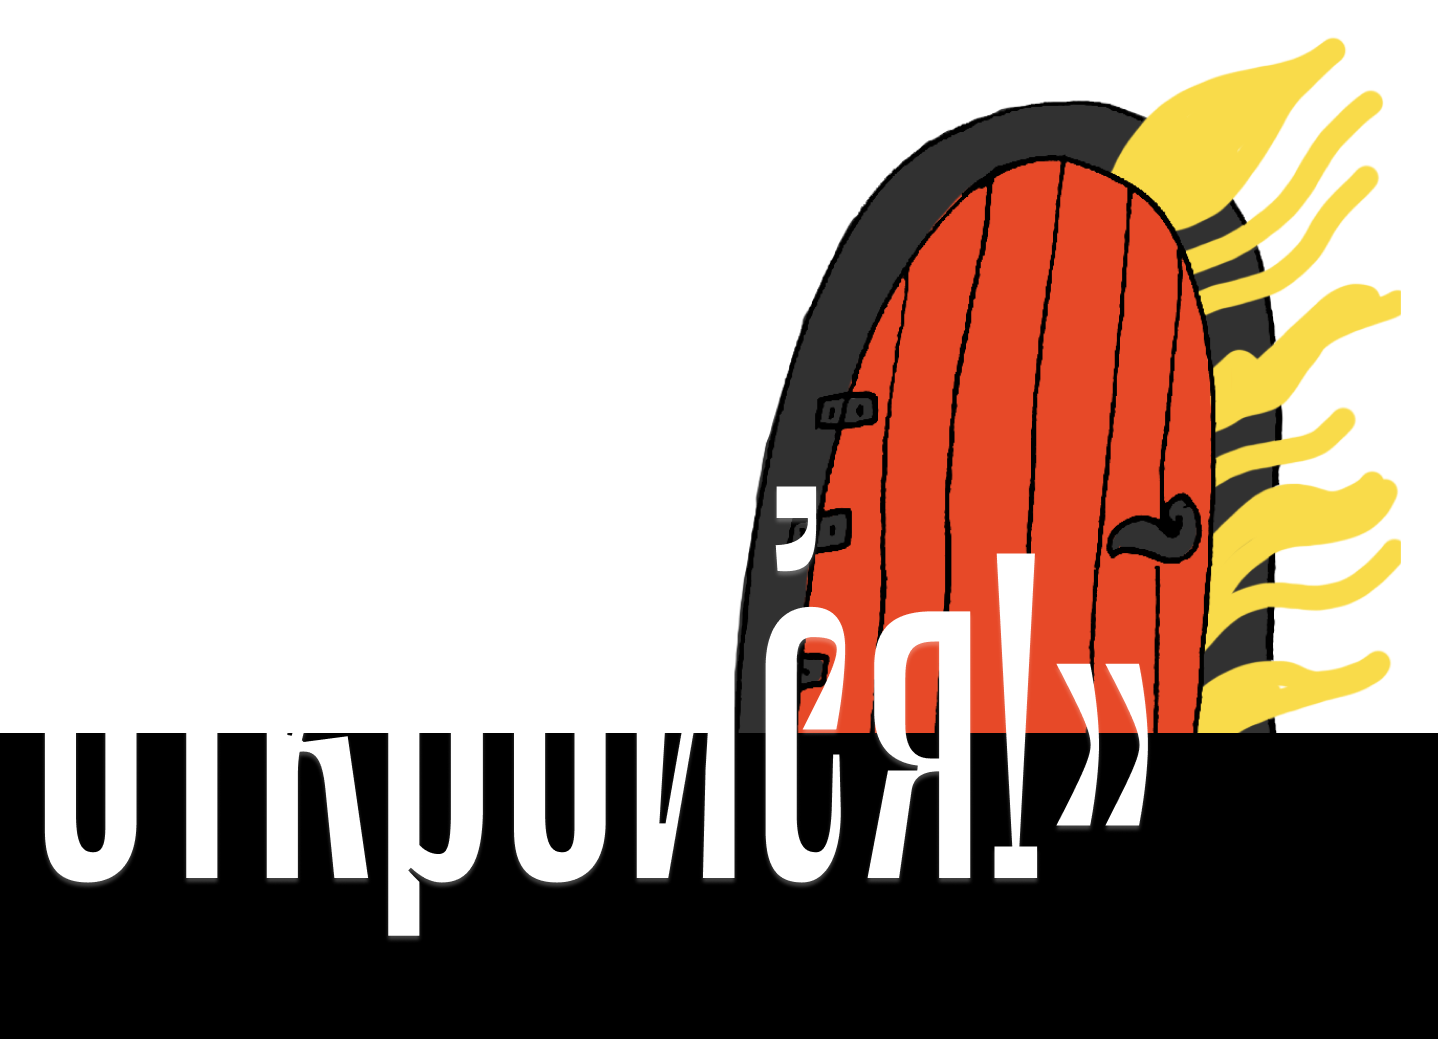
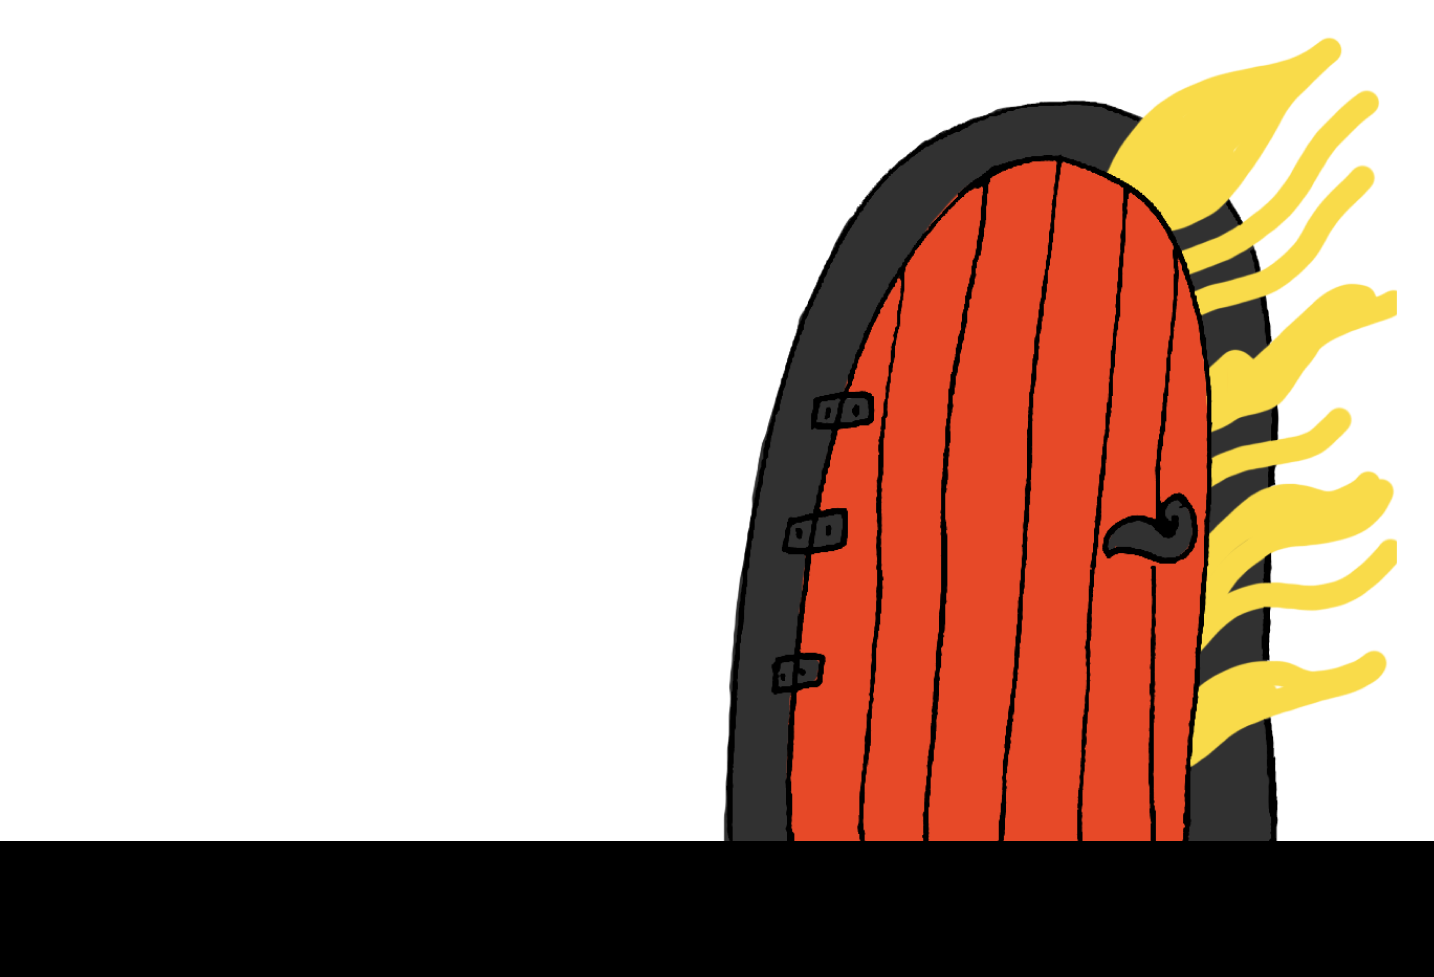
исправляю ошиб очки

diff --git a/index.html b/index.html
@@ -4,17 +4,19 @@
     <meta charset="utf-8">
     <meta name="viewport" content="width=device-width, initial-scale=1.0">
     <link rel="stylesheet" href="css/main.css">
+    <link rel="shortcut icon" href="img/door3.png" type="image/x-icon">
     <title>СЕЗАМ</title>
   </head>
   <body>
     <div class="box-1">
+      
       <div class="menu">
         <h5>СЕЗАМ</h5>
         <div class="menu-line"></div>
-        <h3>о нас</h3>
-        <h3>информация</h3>
+        <h3><a href="#box-2">о нас</a></h3>
+        <h3><a href="#people">информация</a></h3>
         
-        <h3>контакты</h3>
+        <h3><a href="#people2">контакты</a></h3>
         
       </div>
       <div class="team">
@@ -23,13 +25,14 @@
         <h2>Открой для себя<br>уникальные места Москвы</h2>
   
       </div>
+      <img class="back" src="img/7.png" >
     </div>
-    <div class="box-2">
+    <div id="box-2" class="box-2">
       <div class="main-text"><h3>&laquo;Сезам&raquo;&nbsp;&mdash; это медиа, рассказывающее про интересные места в&nbsp;Москве, где можно хорошо провести время или купить необычную вещь. Наш проект поможет вам открыть для себя места, которые станут частью вашей жизни, в&nbsp;которых вы&nbsp;сможете отдохнуть и&nbsp;найти людей с&nbsp;общими увлечениями.</h3></div>
       
     </div>
     
-    <div class="people">
+    <div id="people" class="people">
       <div class="character">
         <img src="img/1.png">
         <p>находите новые места</p>
@@ -64,11 +67,13 @@
         <img src="img/frog.png">
       </div>
     </div>
-    <div class="box-3"></div>
-    <div class="min-text">
+    <div class="box-3">
+      <img class="back" src="img/8.png" >
+    </div>
+    <div id="people2" class="min-text">
       <p>Мы&nbsp;будем выкладывать публикации не&nbsp;только на&nbsp;сайте,<br>но&nbsp;и&nbsp;в&nbsp;нашем <a href="">инстаграме</a>, <a href="">телеграм канале</a> и&nbsp;группе в&nbsp;<a href="">вк</a>.</p>
     </div>
-    <div class="people2">
+    <div  class="people2">
       <div class="character">
         <img src="img/4.png">
         
@@ -84,6 +89,7 @@
     </div>
     <div class="box">
       <img src="img/door.png" alt="">
+      <img id="img" src="img/sezam.svg" alt="">
     </div>
     
 

diff --git a/css/main.css b/css/main.css
@@ -24,18 +24,25 @@ body{
 h1{
   font-family: Le Murmure;
   font-size: 96px;
+  position: relative;
+  z-index: 2;
 }
 h2{
   font-family: Yeseva One;
   font-size: 48px;
+  position: relative;
+  z-index: 2;
 }
 h3{
   font-family: CSTM;
-  font-size: 24px;
+  font-size: 18px;
+  position: relative;
+  z-index: 2;
 }
 h4{
   font-family: Nunito;
   font-size: 14px;
+
 }
 h5{
   font-family: Le Murmure;
@@ -49,6 +56,7 @@ a{
   text-decoration: none;
   color: #002DF4;
 }
+
 .menu{
   display: flex;
   width: 1160px;
@@ -56,6 +64,8 @@ a{
   align-items: center;
   margin-top: 52px;
   margin-bottom: 44px;
+  position: relative;
+  z-index: 2;
 
 }
 .team{
@@ -70,7 +80,7 @@ a{
   margin-left: 150px;
   font-size: 64px;
   
-  margin-top: 292px;
+  margin-top: 362px;
   margin-bottom: 36px;
 }
 .stop{
@@ -108,7 +118,18 @@ a{
 .min-text p{
   text-align: center;
 }
-
+.back{
+  position: relative;
+  z-index: 1;
+  margin-top: -800px;
+  width: 100wv;
+}
+.box-3 .back{
+  position: relative;
+  z-index: 1;
+  margin-top: 0px;
+  width: 100vw;
+}
 .people{
   margin-top: 130px;
   margin-bottom: 130px;
@@ -121,11 +142,13 @@ a{
   
   text-align: center;
 }
+
 .txt h4{
   font-size: 40px;
   font-weight: 700;
   margin-left: 58px;
   width: 505px;
+  margin-bottom: 30px;
 
 }
 .help{
@@ -241,7 +264,7 @@ a{
 }
 .box{
   width: 100wv;
-  height: 1204px;
+  height: 905px;
   background-color: #002DF4;
   display: flex;
   align-items: flex-end;
@@ -249,8 +272,13 @@ a{
 
 }
 .box img{
-  margin-top: 220px;
+  margin-top: -65px;
   width: 100vw;;
+}
+#img{
+  margin-top: -695px;
+  height: 557px;
+
 }
 .futter{
   width: 100vw;
